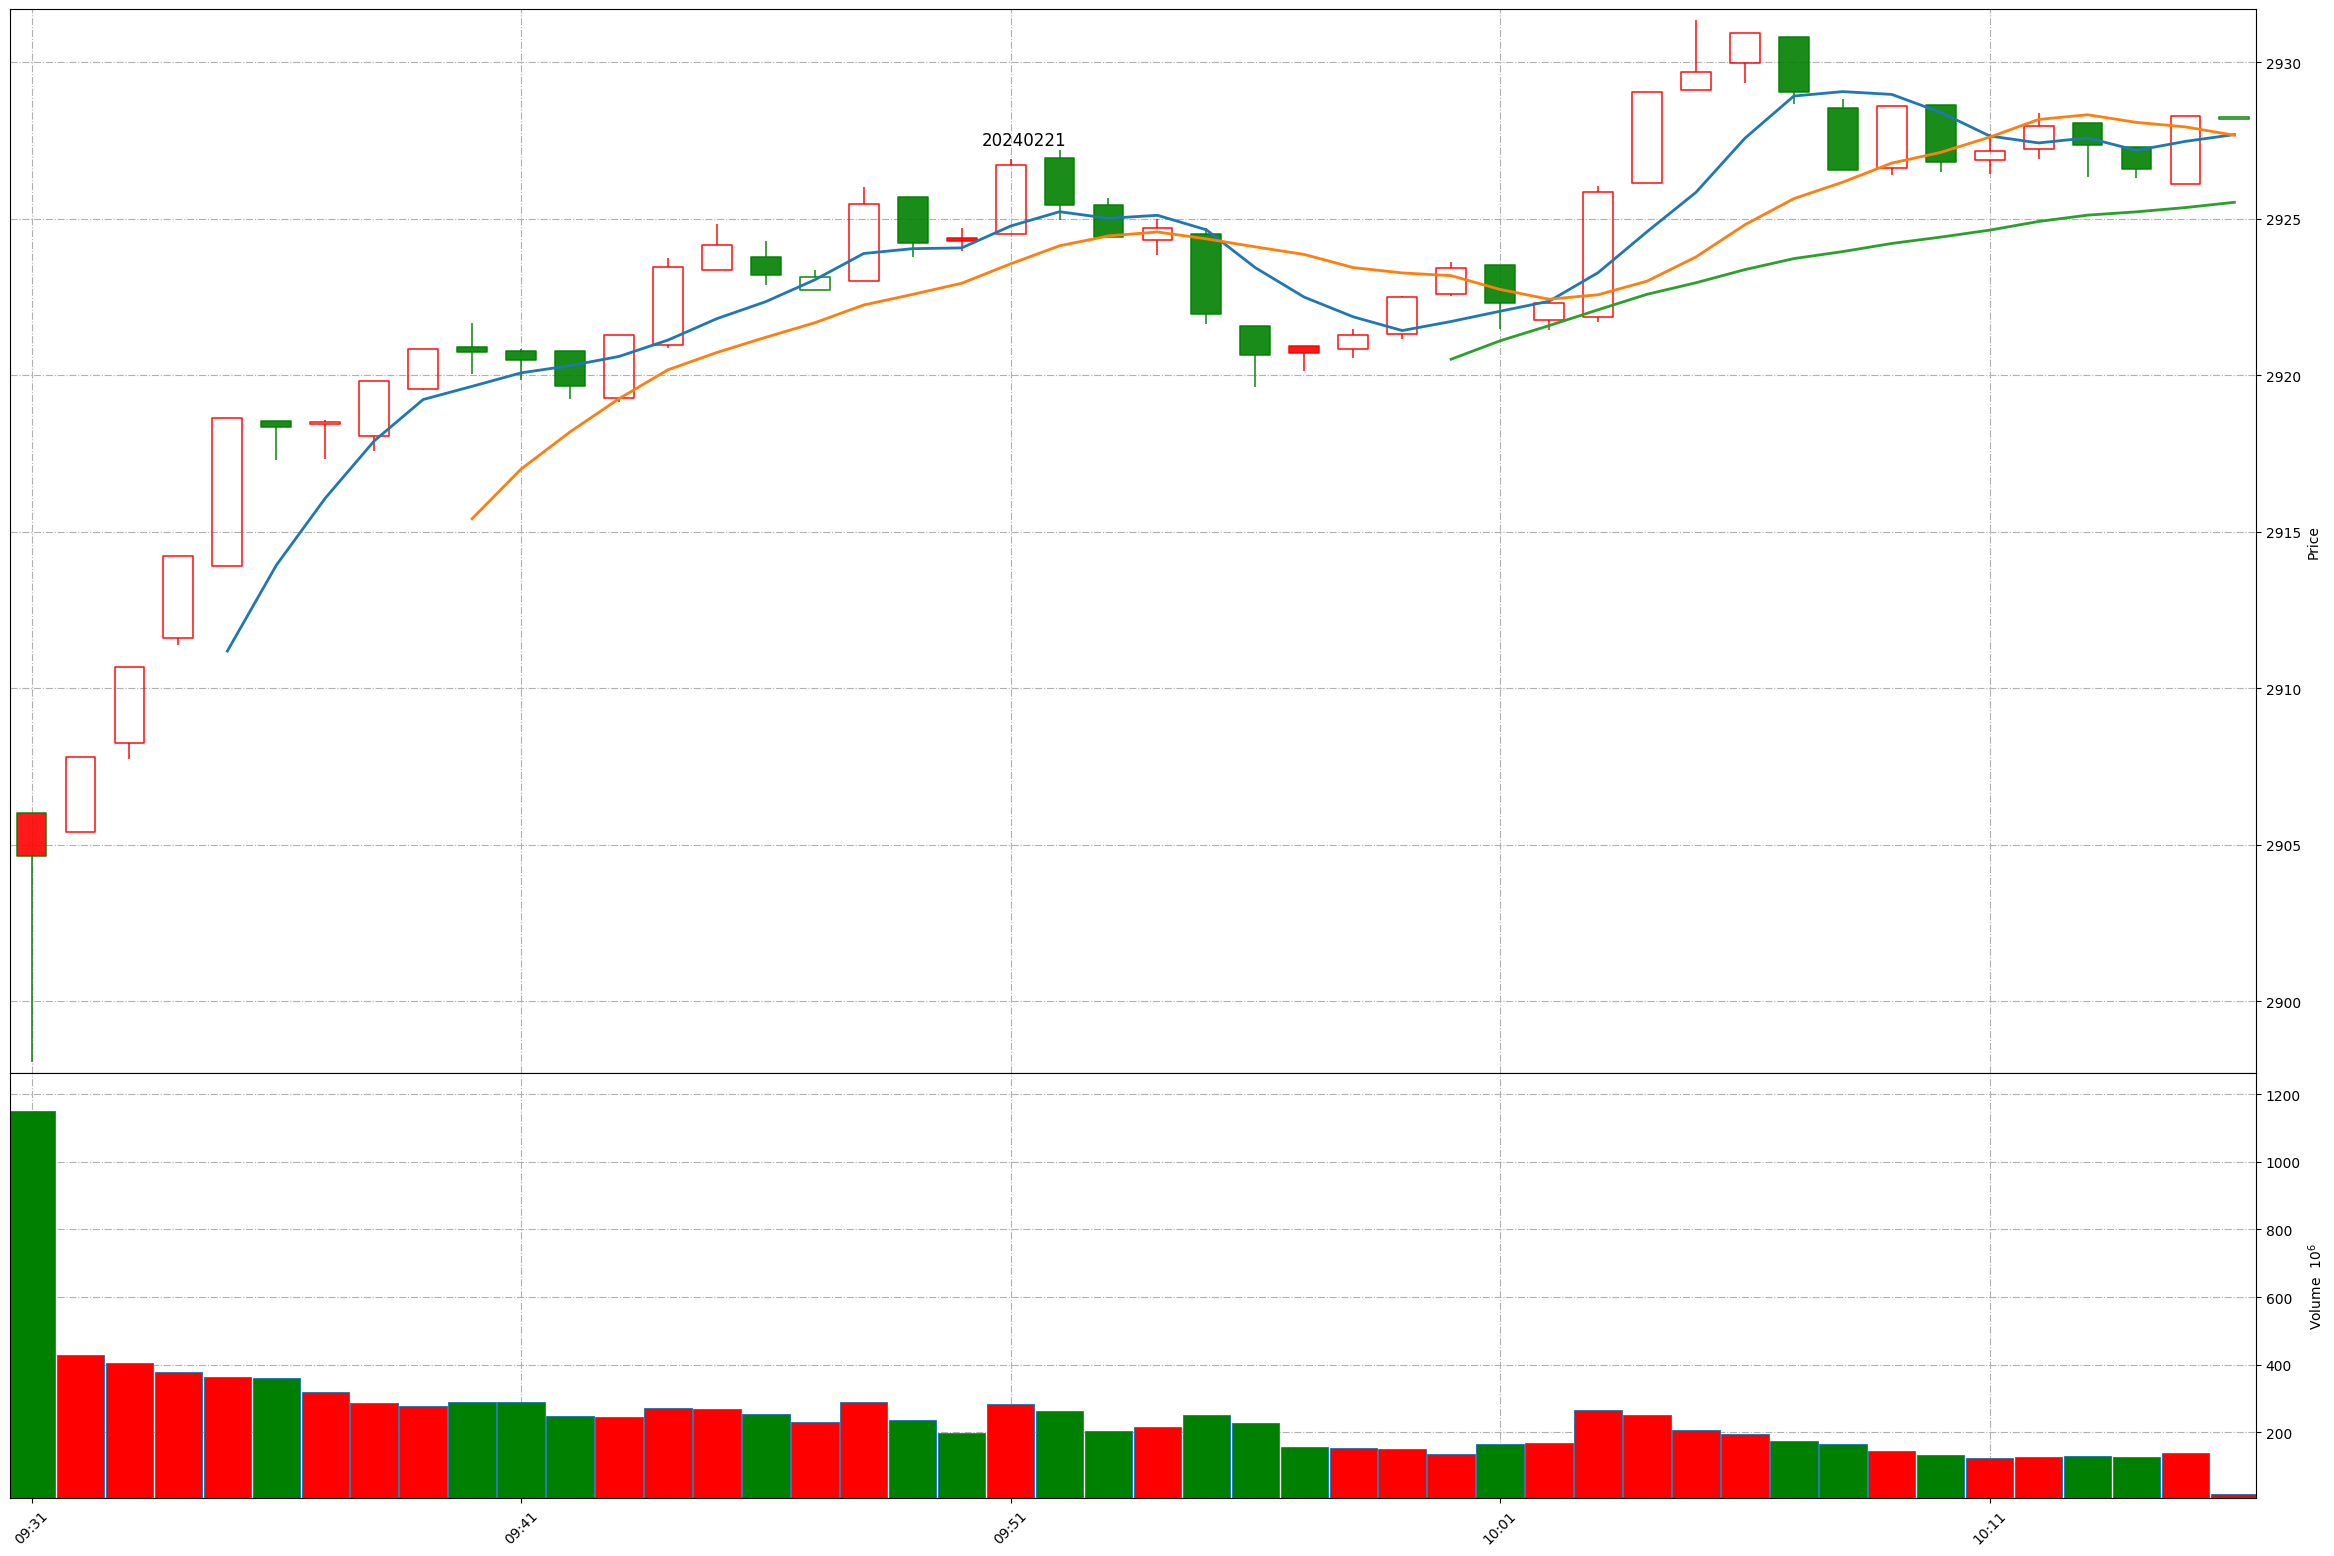
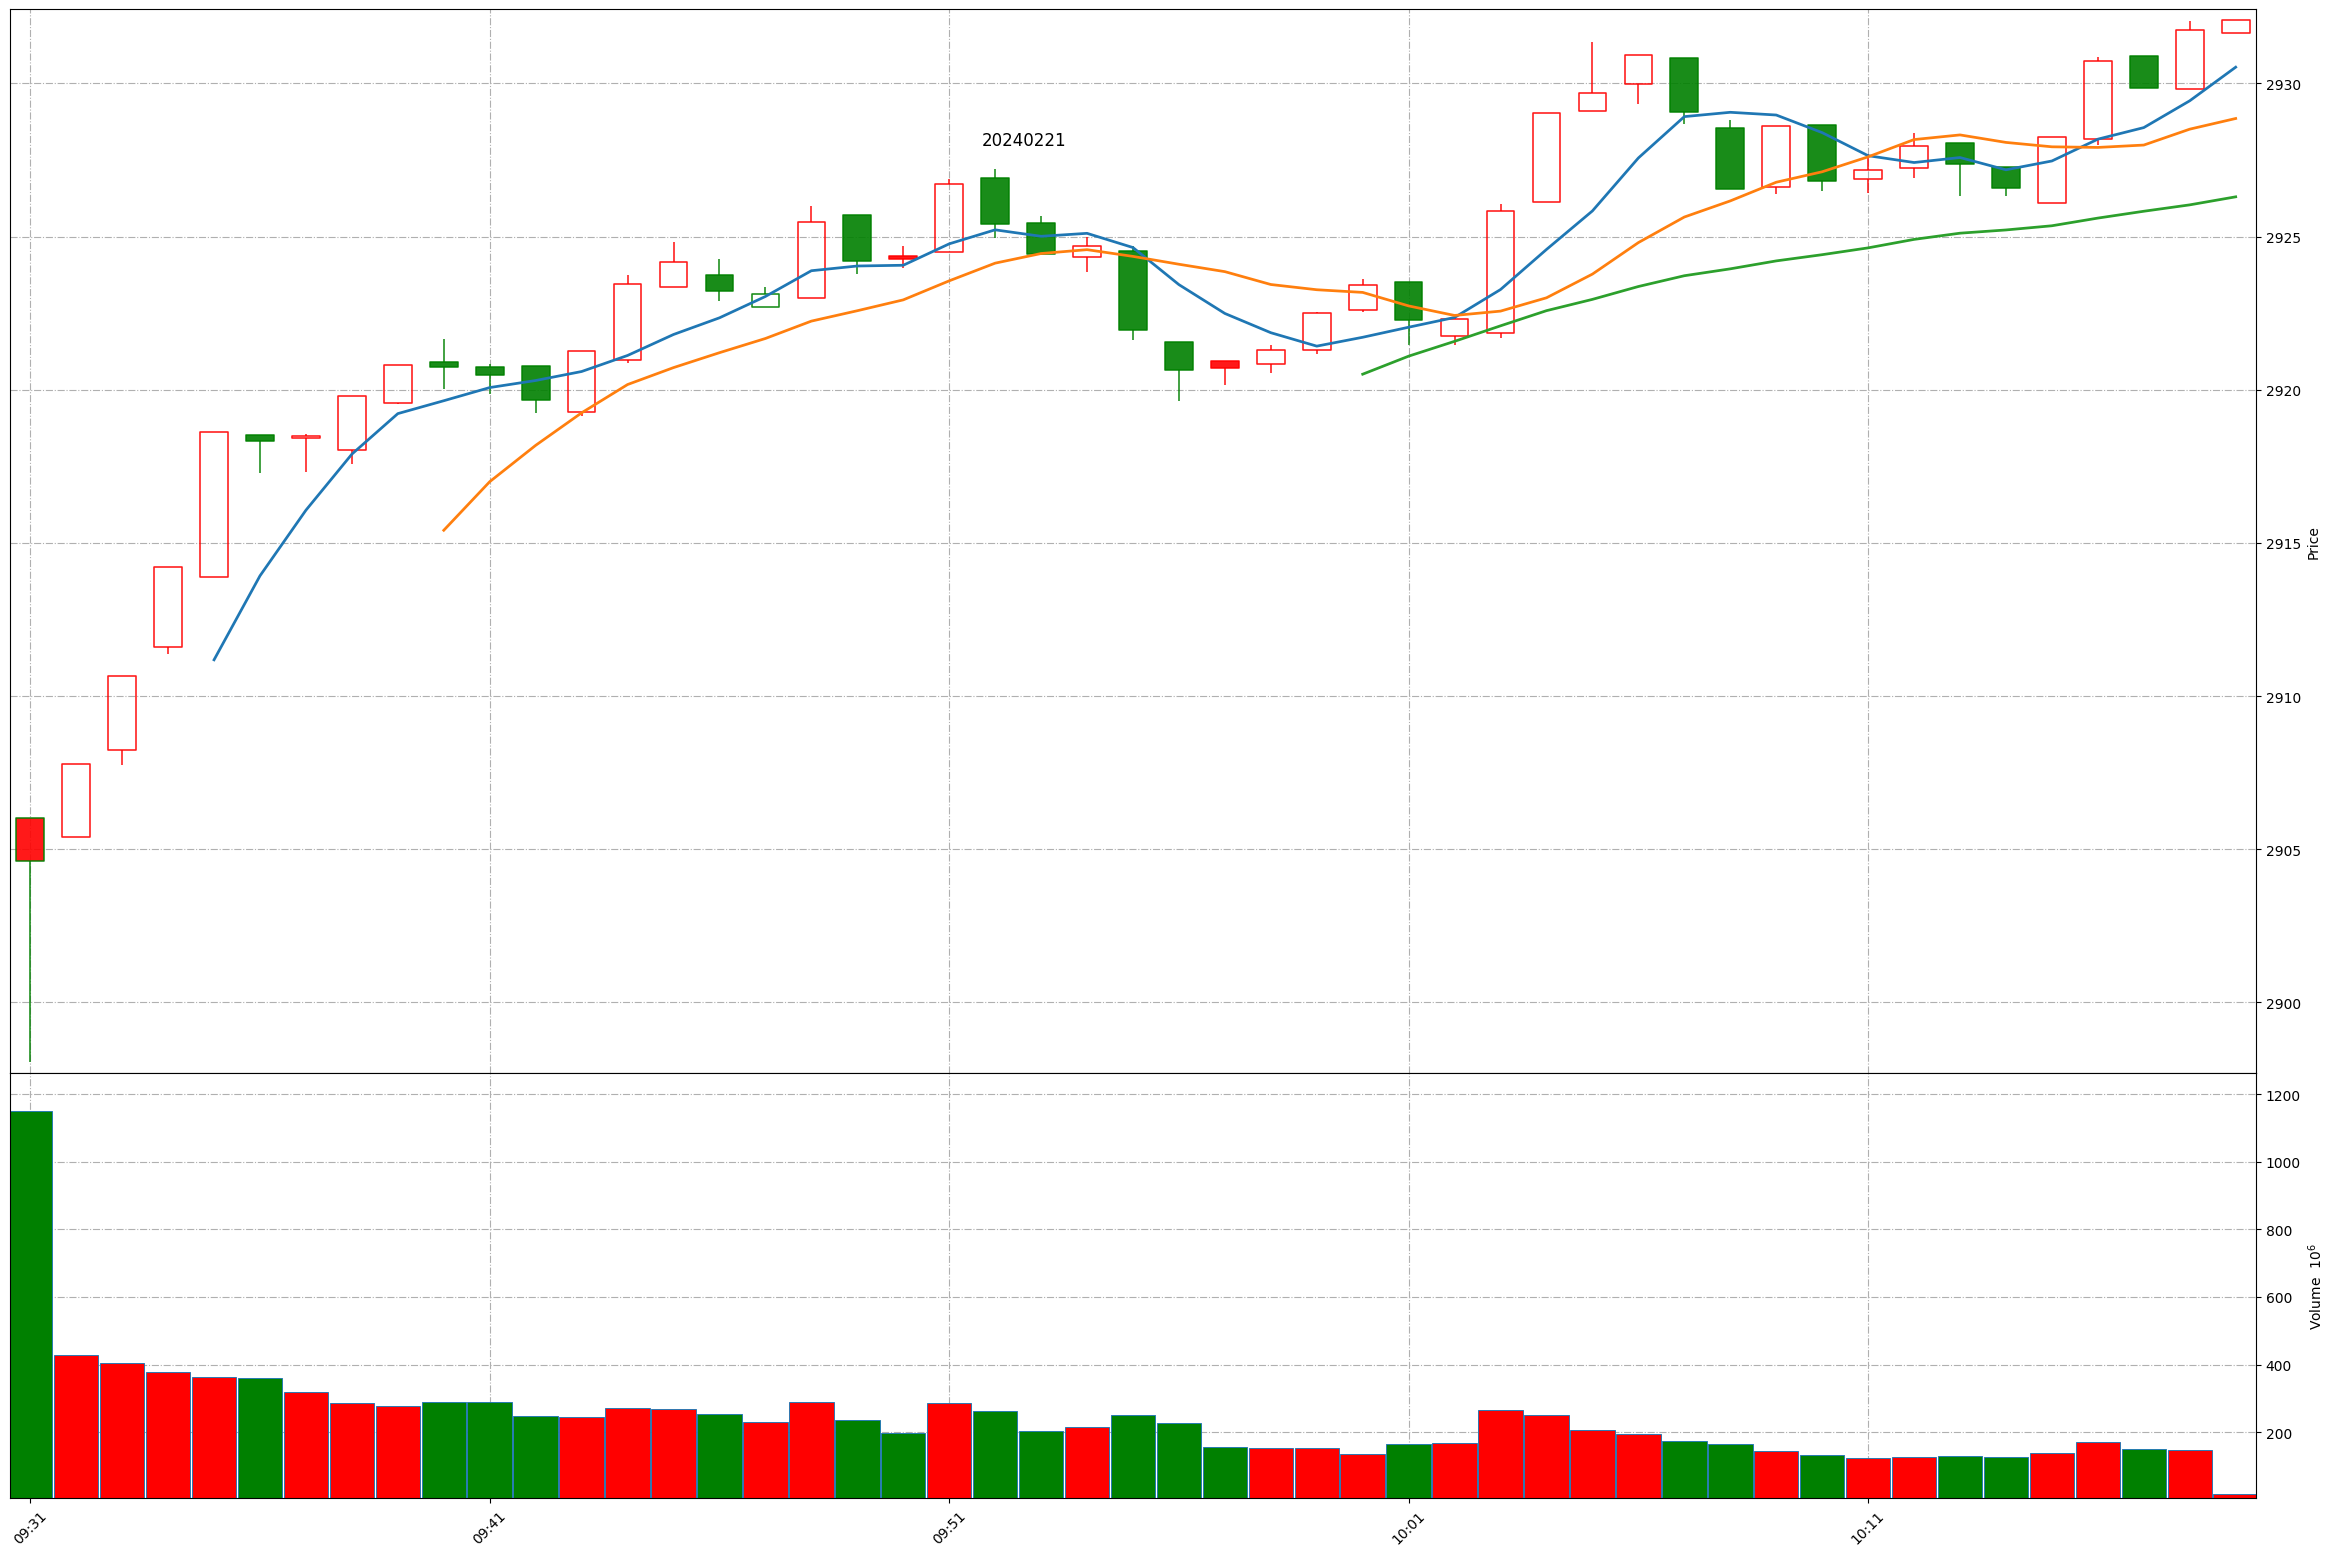
Github action update at 2024-02-21 10:18:24.

diff --git a/README.md b/README.md
@@ -1,11 +1,11 @@
 
 # Daily-A-share-market-quotes 每日 A 股指数（5min 更新）- 20240221
 
-### 上证指数 20240221 10:15
+### 上证指数 20240221 10:18
 ![](./fig/2024/2/20240221-sh000001.png)
 
-### 深证成指 20240221 10:15
+### 深证成指 20240221 10:18
 ![](./fig/2024/2/20240221-sz399001.png)
 
-### 北证50 20240221 10:15
+### 北证50 20240221 10:18
 ![](./fig/2024/2/20240221-bj899050.png)
